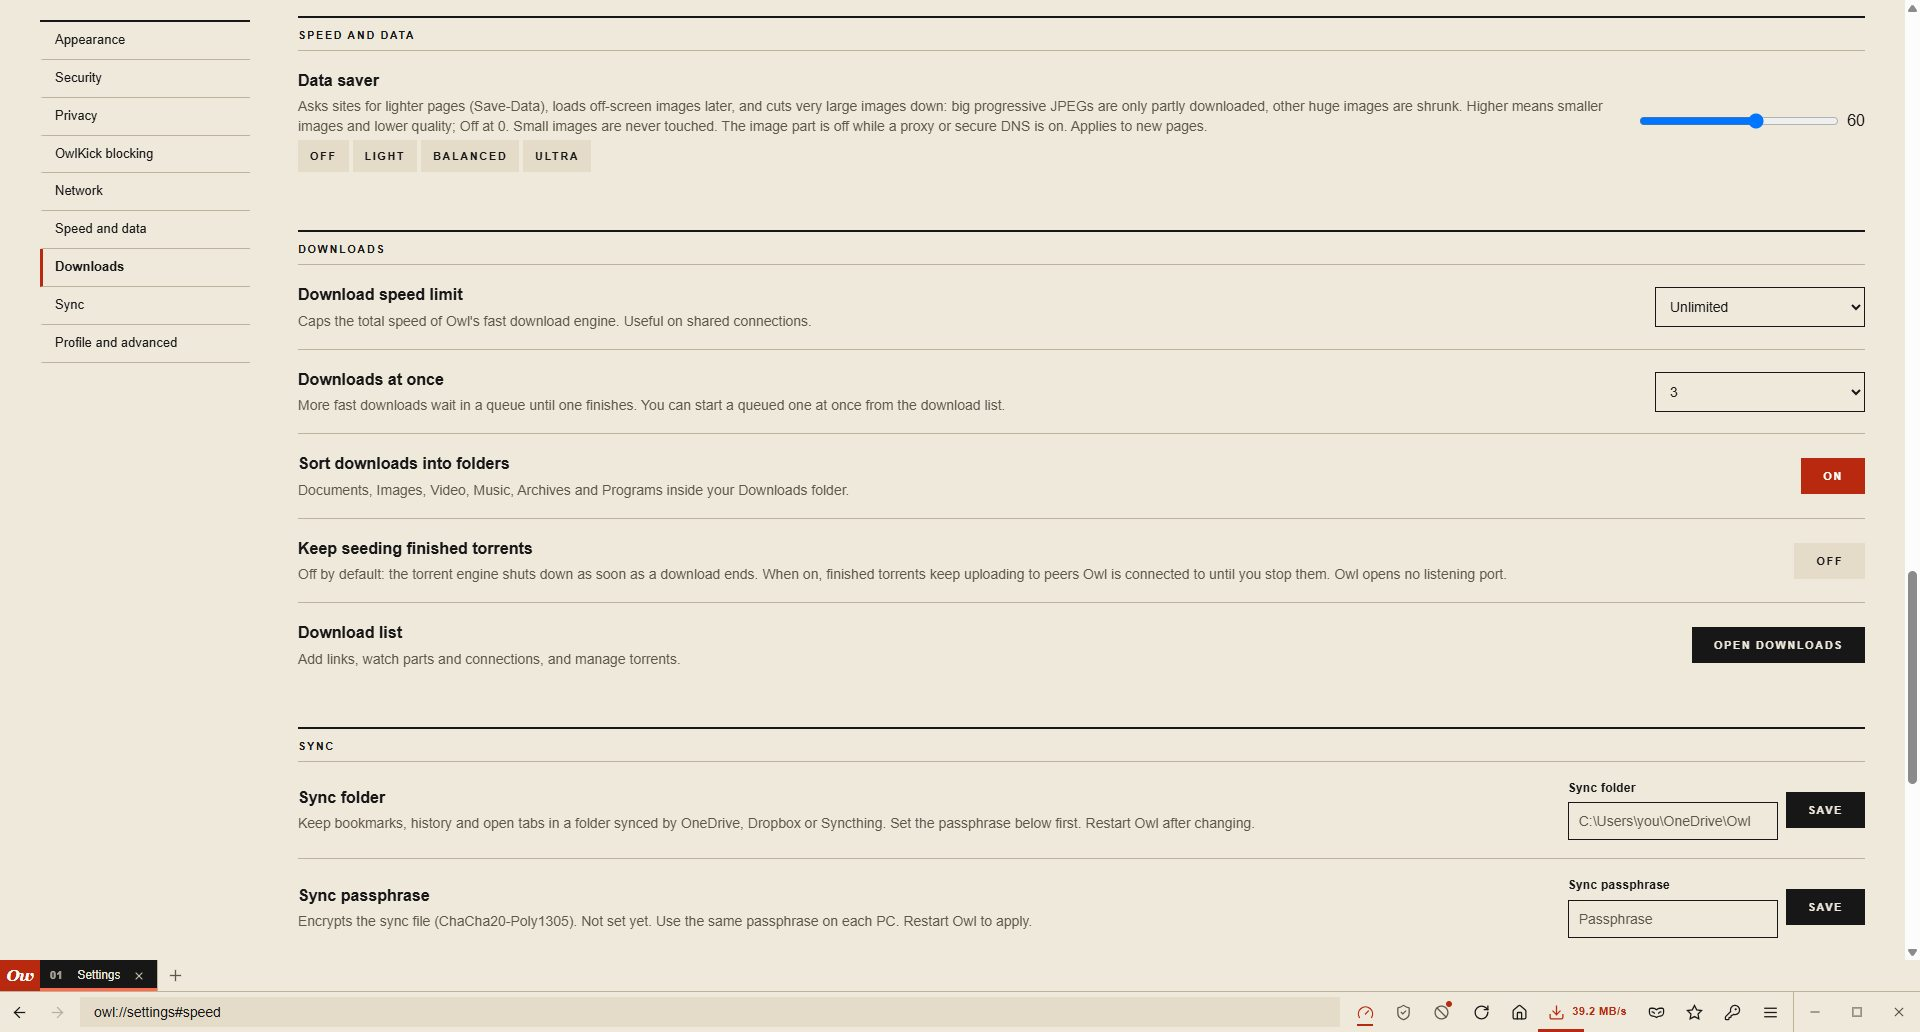
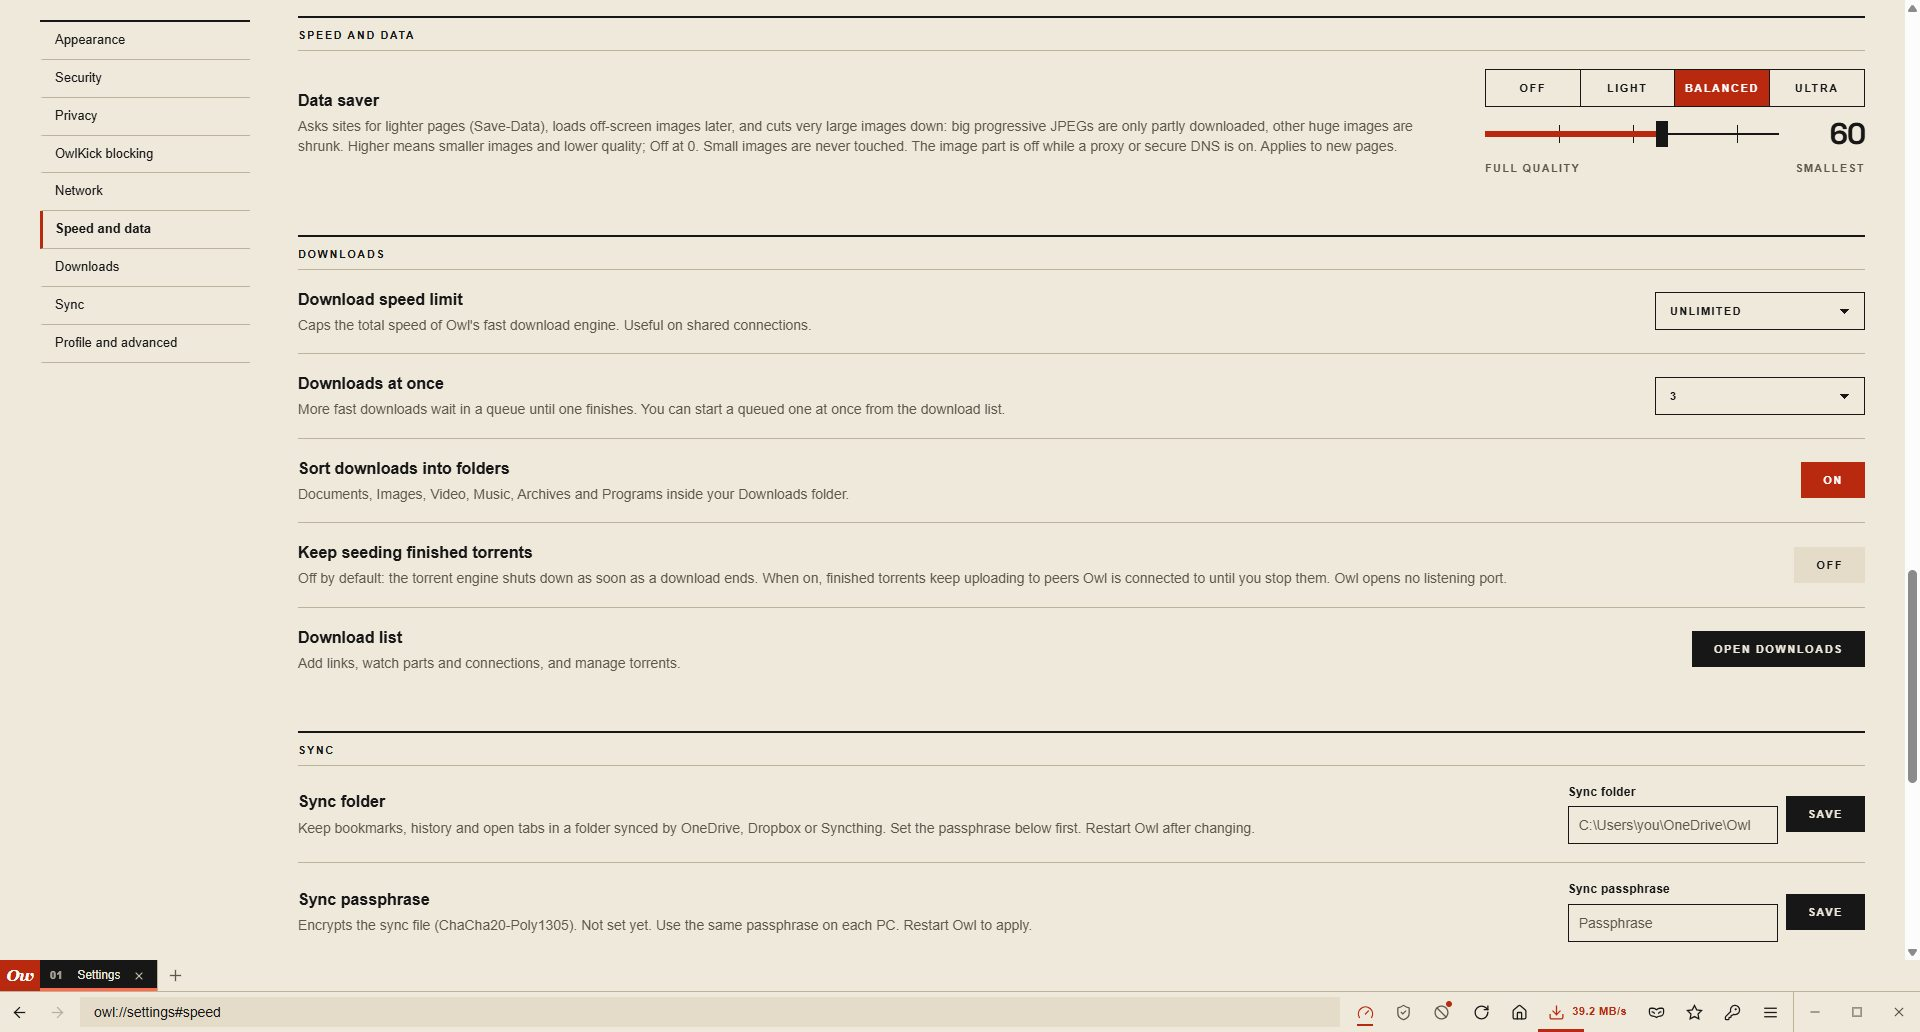
Swiss dropdowns on the download list and settings, a segmented Data saver control with a flat square-thumb scale, settings sidebar marks the opened section; retaken screenshots

diff --git a/src/pages.rs b/src/pages.rs
@@ -41,7 +41,9 @@ button[disabled]{opacity:.45;cursor:default}button[disabled]:hover{background:va
 input::placeholder{color:var(--mute);opacity:1}
 .set input.pin{width:90px;letter-spacing:.3em;text-align:center}
 .set input.pk,.set select.pk{width:210px}
-.set select.pk{font:500 14px "Helvetica Neue",Helvetica,Arial,sans-serif;padding:10px;border:1px solid var(--ink);background:var(--bg);color:var(--ink)}
+select{-webkit-appearance:none;appearance:none;font:700 11px "Helvetica Neue",Helvetica,Arial,sans-serif;letter-spacing:.12em;text-transform:uppercase;min-height:38px;padding:0 36px 0 14px;border:1px solid var(--ink);border-radius:0;color:var(--ink);cursor:pointer;outline:0;background:var(--bg) no-repeat;background-image:linear-gradient(45deg,transparent 50%,currentColor 50%),linear-gradient(135deg,currentColor 50%,transparent 50%);background-position:calc(100% - 19px) 52%,calc(100% - 14px) 52%;background-size:5px 5px;transition:background-color .15s,color .15s,box-shadow .15s}select:hover{background-color:var(--ink);color:var(--on)}select:focus-visible{box-shadow:0 0 0 2px var(--red)}option{background:var(--bg);color:var(--ink);font:500 14px "Helvetica Neue",Helvetica,Arial,sans-serif;text-transform:none;letter-spacing:0}
+/* Data saver: segmented presets over a flat scale with a square thumb */
+.sv{display:grid;gap:12px;width:380px;max-width:100%}.sv .seg{display:grid;grid-template-columns:repeat(4,1fr);border:1px solid var(--ink)}.sv .seg button{background:var(--bg);color:var(--ink);justify-content:center;padding:0 6px;min-height:36px;border-right:1px solid var(--ink)}.sv .seg button:last-child{border-right:0}.sv .seg button:hover{background:var(--ink);color:var(--on)}.sv .seg button.on{background:var(--red);color:var(--onred)}.sv .rr{display:grid;grid-template-columns:1fr 70px;gap:16px;align-items:center}.sv output{font:700 30px/1 "Space Grotesk","Helvetica Neue",Helvetica,Arial,sans-serif;letter-spacing:-.03em;text-align:right;font-variant-numeric:tabular-nums}.sv .sc{position:relative;height:26px}.sv .sc::before{content:"";position:absolute;left:0;right:0;top:12px;height:2px;background:var(--ink)}.sv .sc::after{content:"";position:absolute;left:0;top:10px;height:6px;width:var(--v,0%);background:var(--red)}.sv .sc i{position:absolute;top:4px;width:1px;height:18px;background:var(--ink)}.set input.sw{-webkit-appearance:none;appearance:none;position:absolute;inset:0;width:100%;height:26px;margin:0;padding:0;border:0;background:transparent;z-index:1;cursor:pointer;box-shadow:none}input.sw::-webkit-slider-runnable-track{height:26px;background:transparent}input.sw::-webkit-slider-thumb{-webkit-appearance:none;width:12px;height:26px;border:0;border-radius:0;background:var(--ink);transition:background .15s,transform .12s}input.sw:hover::-webkit-slider-thumb,input.sw:active::-webkit-slider-thumb{background:var(--red)}input.sw:active::-webkit-slider-thumb{transform:scaleX(1.4)}input.sw:focus-visible::-webkit-slider-thumb{background:var(--red);box-shadow:0 0 0 3px var(--bg),0 0 0 5px var(--red)}.sv .lbl{display:flex;justify-content:space-between;font-size:11px;font-weight:700;letter-spacing:.12em;text-transform:uppercase;color:var(--mute)}
 .pill{font-size:11px;font-weight:700;letter-spacing:.12em;text-transform:uppercase;cursor:pointer}
 code{font-size:13px;background:var(--soft);padding:2px 6px}
 .themes{display:grid;grid-template-columns:repeat(auto-fill,minmax(132px,1fr));gap:14px;margin:4px 0 34px}
@@ -163,7 +165,9 @@ const SHARED_JS: &str = r#"<script>
   else if(a==='setprofile'){send({cmd:'set_profile',name:$('pn').value,email:$('pe').value});b.textContent='Saved'}
   else if(a==='setproxy'){send({cmd:'set_proxy',proxy:$('px').value})}
   else if(a==='back'){history.length>1?history.back():location.href='owl://newtab'}});
- document.addEventListener('input',e=>{const t=e.target;if(t&&t.dataset&&t.dataset.out){const o=document.getElementById(t.dataset.out);if(o)o.textContent=+t.value?t.value:'Off'}});
+ document.addEventListener('input',e=>{const t=e.target;if(t&&t.dataset&&t.dataset.out){const o=document.getElementById(t.dataset.out);if(o)o.textContent=+t.value?t.value:'Off'}if(t&&t.classList&&t.classList.contains('sw'))svSync(t)});
+function svSync(t){const w=t.closest('.sv');if(!w)return;const v=+t.value;w.style.setProperty('--v',(v/99*100)+'%');const k=v===0?0:v<38?1:v<68?2:3;w.querySelectorAll('.seg button').forEach((b,i)=>{b.classList.toggle('on',i===k);b.setAttribute('aria-pressed',i===k)})}
+{const svInit=()=>document.querySelectorAll('input.sw').forEach(svSync);if(document.readyState==='loading')addEventListener('DOMContentLoaded',svInit);else svInit()}
  document.addEventListener('change',e=>{const t=e.target;if(t&&t.dataset&&t.dataset.sel)send({cmd:'set_num',key:t.dataset.sel,val:+t.value})});
  document.addEventListener('error',e=>{const t=e.target;if(t&&t.tagName==='IMG'){if(t.dataset.hide!==undefined)t.style.visibility='hidden';else if(t.dataset.fb){const d=document.createElement('div');d.className='l';d.textContent=t.dataset.fb;t.replaceWith(d)}}},true);
  function cu(e){const n=+e.dataset.n;if(!n)return;if(matchMedia('(prefers-reduced-motion:reduce)').matches)return;const t0=performance.now();(function f(t){const k=Math.min(1,(t-t0)/1000);e.textContent=Math.round(n*(1-Math.pow(1-k,3)));if(k<1)requestAnimationFrame(f)})(t0)}
@@ -602,8 +606,8 @@ document.querySelectorAll('.th').forEach(b=>b.onclick=()=>{const t=b.dataset.t,l
  if(!live)setTimeout(()=>location.reload(),300)});
 (function(){const links=[...document.querySelectorAll('.snav a')];const secs=links.map(a=>document.getElementById(a.getAttribute('href').slice(1)));
  const mark=id=>links.forEach(a=>{const on=a.getAttribute('href')==='#'+id;a.classList.toggle('on',on);if(on)a.setAttribute('aria-current','true');else a.removeAttribute('aria-current')});
- links.forEach(a=>a.onclick=e=>{e.preventDefault();const t=document.getElementById(a.getAttribute('href').slice(1));if(t){t.scrollIntoView({block:'start'});mark(t.id);history.replaceState(null,'','#'+t.id)}});
- const io=new IntersectionObserver(es=>{const v=es.filter(e=>e.isIntersecting).sort((a,b)=>a.boundingClientRect.top-b.boundingClientRect.top)[0];if(v)mark(v.target.id)},{rootMargin:'-10% 0px -70% 0px'});
+ links.forEach(a=>a.onclick=e=>{e.preventDefault();const t=document.getElementById(a.getAttribute('href').slice(1));if(t){t.scrollIntoView({block:'start'});mark(t.id);hold=Date.now()+900;history.replaceState(null,'','#'+t.id)}});
+ let hold=location.hash?Date.now()+1200:0;const io=new IntersectionObserver(es=>{if(Date.now()<hold)return;const v=es.filter(e=>e.isIntersecting).sort((a,b)=>a.boundingClientRect.top-b.boundingClientRect.top)[0];if(v)mark(v.target.id)},{rootMargin:'-10% 0px -70% 0px'});
  secs.forEach(s=>s&&io.observe(s));if(location.hash)mark(location.hash.slice(1));else if(secs[0])mark(secs[0].id)})();
 </script>"#;
     let css = "<style>.sg{display:grid;grid-template-columns:210px minmax(0,1fr);gap:48px;align-items:start}\
@@ -658,9 +662,10 @@ document.querySelectorAll('.th').forEach(b=>b.onclick=()=>{const t=b.dataset.t,l
         )),
         ("speed", "Speed and data", format!(
             "<div class=set><div><b>Data saver</b><p>Asks sites for lighter pages (Save-Data), loads off-screen images later, and cuts very large images down: big progressive JPEGs are only partly downloaded, other huge images are shrunk. Higher means smaller images and lower quality; Off at 0. Small images are never touched. The image part is off while a proxy or secure DNS is on. Applies to new pages.</p>\
-<p><button class=\"ghost sm\" data-act=cmpset data-v=0>Off</button> <button class=\"ghost sm\" data-act=cmpset data-v=25>Light</button> <button class=\"ghost sm\" data-act=cmpset data-v=50>Balanced</button> <button class=\"ghost sm\" data-act=cmpset data-v=85>Ultra</button></p></div>\
-<div class=ctl><input type=range class=pk min=0 max=99 value={v} data-sel=compress data-out=cmpv aria-label=\"Data saver strength\" aria-describedby=cmpv style=\"width:200px\"><output id=cmpv>{vt}</output></div></div>",
+</div>\
+<div class=ctl><div class=sv style=\"--v:{pct}%\"><div class=seg role=group aria-label=\"Data saver presets\"><button data-act=cmpset data-v=0 title=\"No changes to pages\">Off</button><button data-act=cmpset data-v=25 title=\"Save-Data and lazy images, photos barely touched\">Light</button><button data-act=cmpset data-v=50 title=\"Big photos partly downloaded, a good middle\">Balanced</button><button data-act=cmpset data-v=85 title=\"Smallest pages, softer photos\">Ultra</button></div><div class=rr><div class=sc><i style=\"left:25.25%\"></i><i style=\"left:50.5%\"></i><i style=\"left:85.85%\"></i><input type=range class=\"pk sw\" min=0 max=99 value={v} data-sel=compress data-out=cmpv aria-label=\"Data saver strength\" aria-describedby=cmpv></div><output id=cmpv>{vt}</output></div><div class=lbl><span>Full quality</span><span>Smallest</span></div></div></div></div>",
             v = c.compress,
+            pct = c.compress as f64 / 99.0 * 100.0,
             vt = if c.compress == 0 { "Off".to_string() } else { c.compress.to_string() }
         )),
         ("downloads", "Downloads", format!(
